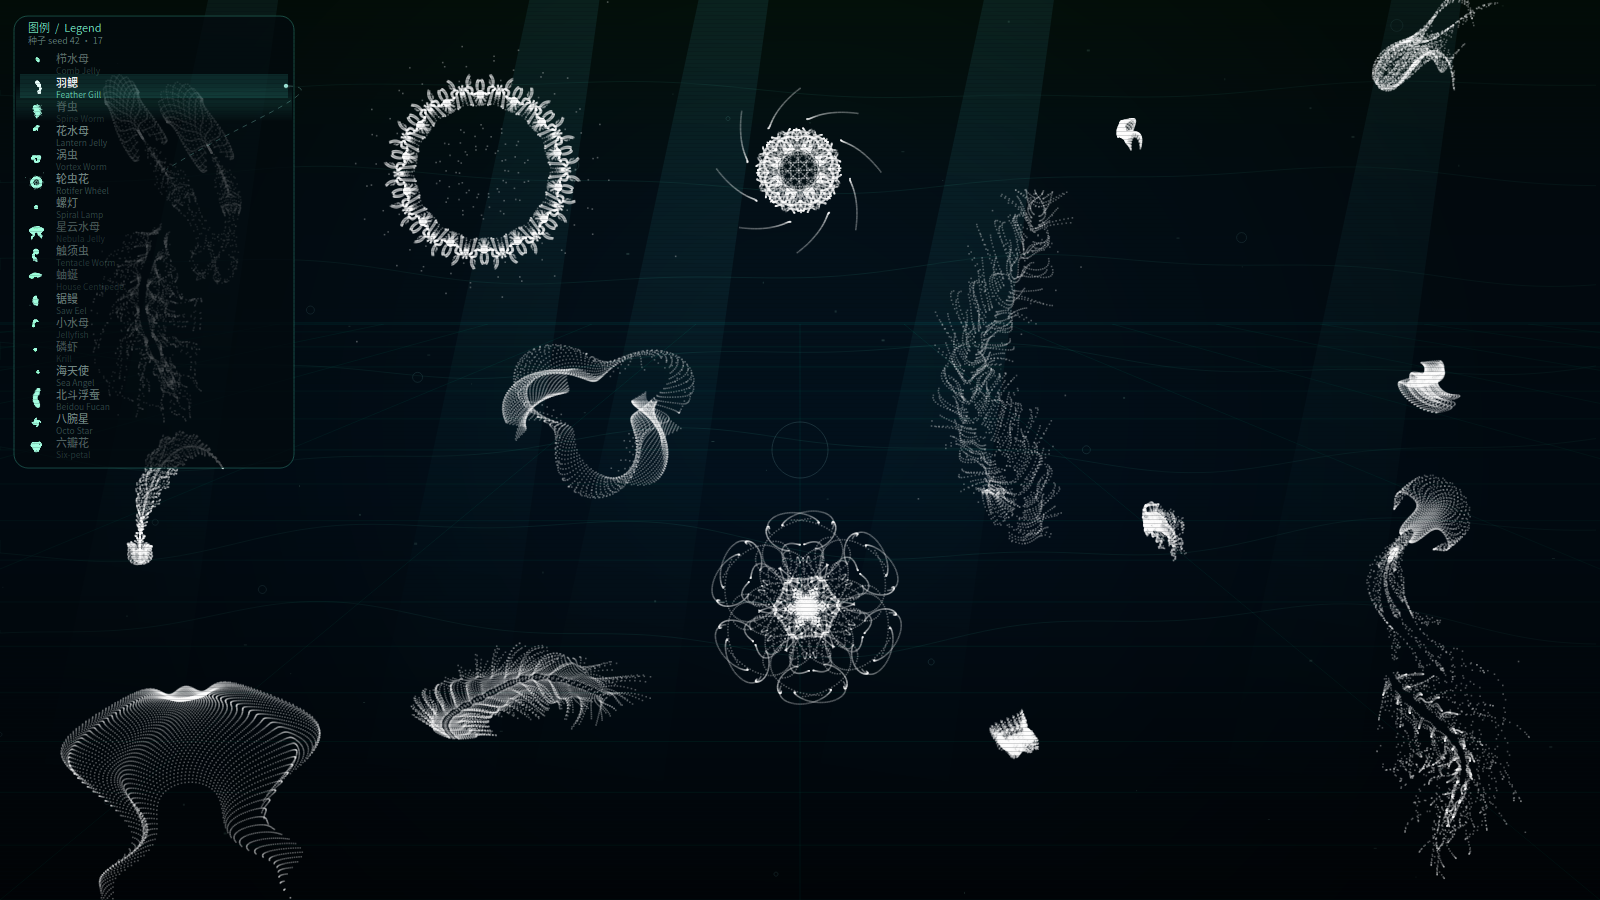
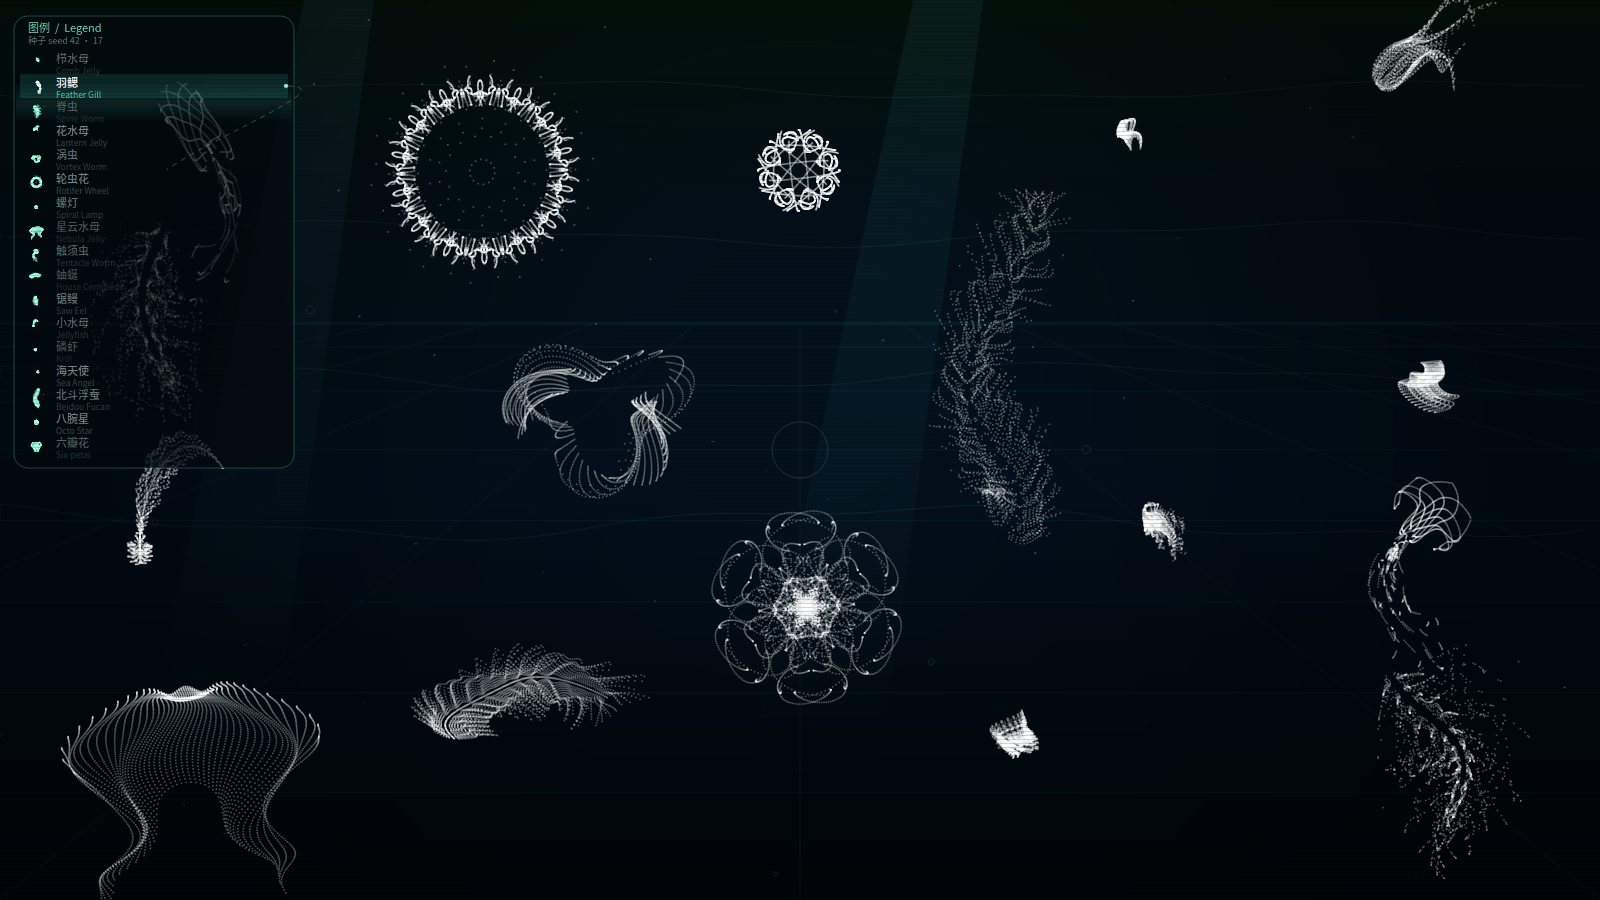
Refresh bilingual README copy and recapture ocean screenshots.
Adds a 1280×640 social preview still so GitHub search and share cards show the current tank.

diff --git a/README.md b/README.md
@@ -1,8 +1,8 @@
 # 赛博海洋馆屏幕保护 / Cyber Ocean Screensaver
 
-公式生物在深海里游动：白点勾勒的浮蚕、水母、栉水母……互相躲开，也会被指针轻轻推开。
+赛博海洋馆是一款跨平台**屏幕保护程序**和**动态壁纸**：公式生成的浮蚕、水母、栉水母、磷虾、海天使在深蓝海里游动，白点勾勒，互相躲开。支持 Linux AppImage、Windows `.scr`、macOS。
 
-Parametric sea-life drawn as translucent scatter points. They steer clear of one another and drift away from the pointer. Runs on **macOS / Linux / Windows** with Python 3.10+ and Chrome, Edge, or Firefox.
+**Cyber Ocean Screensaver** is a cross-platform **screensaver** and **live wallpaper**. Parametric sea-life — jellyfish, comb jellies, krill, worms, sea angels — swim as white particles on deep navy water. Linux, Windows, and macOS. Python gallery plus a native Rust / wgpu engine.
 
 ## 截图 / Screenshots
 
@@ -172,7 +172,7 @@ python3 main.py --write-screensaver wallpaper.html --wallpaper
 
 `http://127.0.0.1:8765/screensaver?wallpaper=1&seed=42&shot=1`
 
-重新截图 Regenerate shots：`./scripts/capture-screenshots.sh`
+重新截图 Regenerate shots（含 GitHub 社交预览 `social.png`）：`./scripts/capture-screenshots.sh`
 
 ## 依赖 / Dependencies
 
